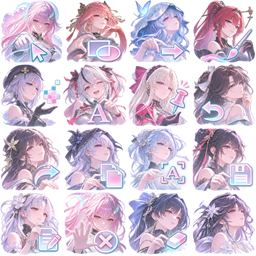
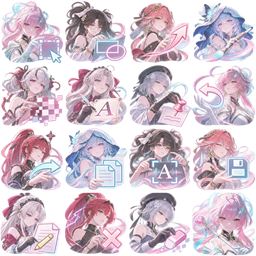
feat: redesign themed toolbar atlases

diff --git a/tests/test_build_scripts.py b/tests/test_build_scripts.py
@@ -4571,7 +4571,7 @@ class ReleaseVersionTest(unittest.TestCase):
         project(...) 在文件第 2 行。
         """
         cmake = (REPO_ROOT / "CMakeLists.txt").read_text(encoding="utf-8")
-        self.assertEqual(self.resolver.parse_base_version(cmake), "1.7.11")
+        self.assertEqual(self.resolver.parse_base_version(cmake), "1.7.12")
 
     def test_version_comparison_uses_components_not_prefixes(self) -> None:
         """版本比较必须按分量，不能只做字符串前缀比较。

diff --git a/.release/v1.7.12.md b/.release/v1.7.12.md
@@ -1,0 +1,7 @@
+# Snap-Lite v1.7.12
+
+- 重新设计九套主题工具栏图集：增加角色动作、功能道具和每格的构图变化。
+- 各主题继续按照 `Desktop\temp` 中对应参考图的线条、上色和质感绘制。
+- 保留透明背景和 4×4 功能图标布局。
+
+Windows 11 x64。

diff --git a/README.md b/README.md
@@ -114,5 +114,5 @@ python scripts/verify_generated_sources.py build
 发布版本号解析（纯函数，可单测）：
 
 ```powershell
-python scripts/resolve_release_version.py --base-version 1.7.11
+python scripts/resolve_release_version.py --base-version 1.7.12
 ```
